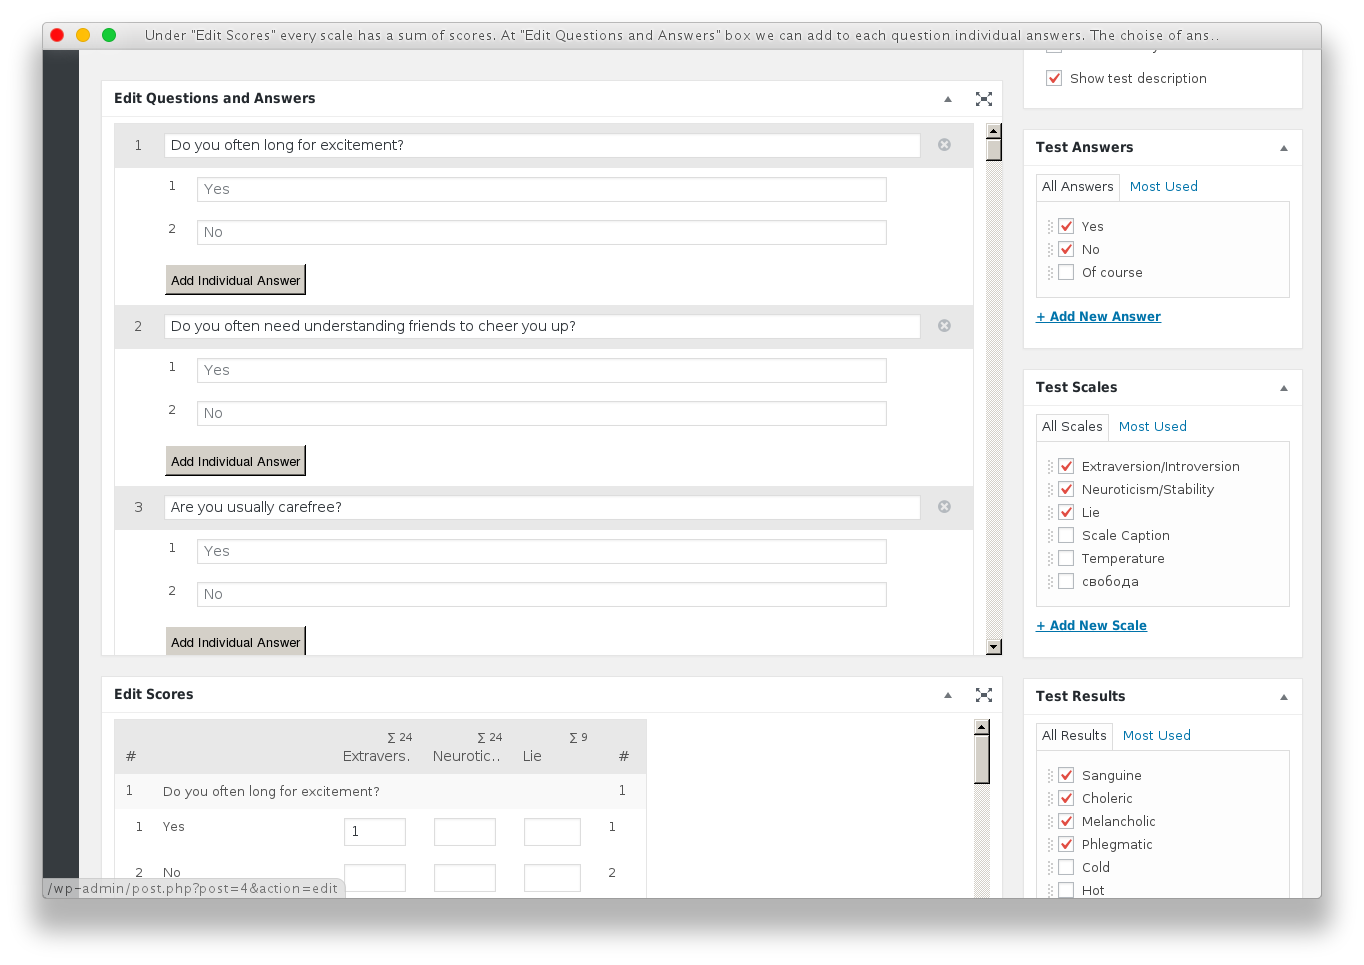
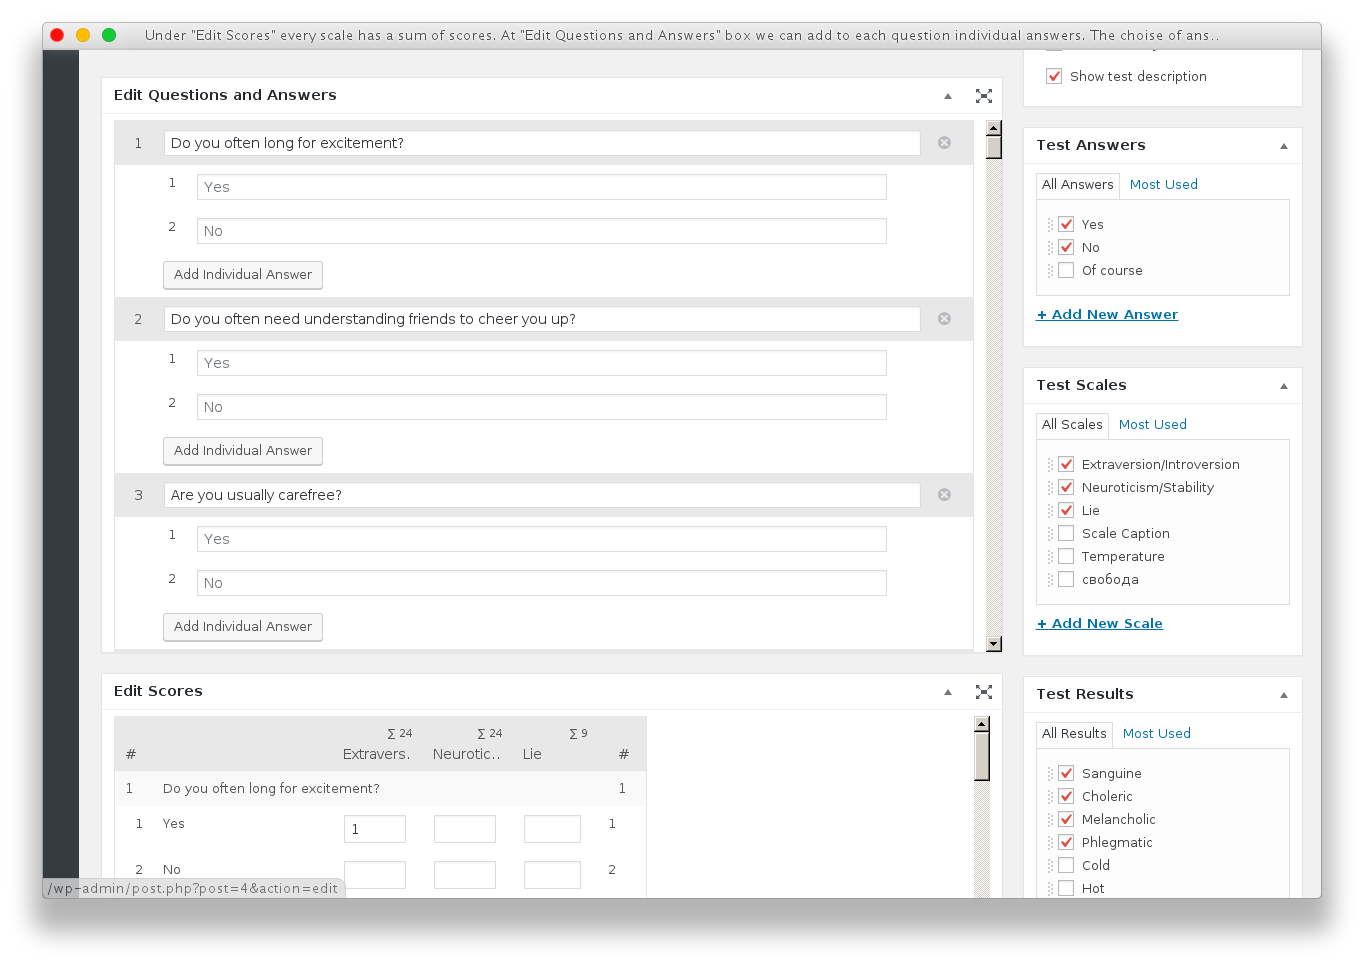
Update screenshots

diff --git a/tools/screenshots/create-screenshots.js b/tools/screenshots/create-screenshots.js
@@ -142,8 +142,11 @@ var screenshots = [
 
             casper.then(function() {
                 this.evaluate(function() {
-                    return jQuery('#wpt_edit_questions.closed').length > 0
-                }) && this.clickLabel('Edit Questions and Scores', 'span') && this.wait(400)
+                    return jQuery('#wpt_edit_questions_answers.closed').length > 0
+                }) && this.clickLabel('Edit Questions and Answers', 'span') && this.wait(400)
+                this.evaluate(function() {
+                    return jQuery('#wpt_edit_scores.closed').length > 0
+                }) && this.clickLabel('Edit Scores', 'span')
             })
         }
     }, {
@@ -192,6 +195,7 @@ var screenshots = [
         }
     },{
         title   : 'Ready test on the home page',
+        offset  : 1700,
         actions : function () {
             casper.thenOpen('http://wpti.dev:8000/wp-login.php?action=logout', function() {
                 this.clickLabel('log out', 'a')
@@ -201,15 +205,15 @@ var screenshots = [
         }
     }, {
         title   : 'The page with the description of the test, questions and answers',
-        offset  : 1150 + 580,
+        offset  : 1150 + 580 - 120,
         actions : function () {
-            casper.then(function() {
-                this.clickLabel('Eysenck’s Personality Inventory (EPI) (Extroversion/Introversion)')
-            }).waitForUrl(/eysencks/)
+            casper
+            .thenOpen('http://wpti.dev:8000/test/eysencks-personality-inventory-epi-extroversionintroversion/')
+            .waitForUrl(/eysencks/)
         }
     }, {
         title   : 'Unanswered questions are highlighted to respondent',
-        offset  : 7200 + 1100,
+        offset  : 7200 + 1100 + 160,
         actions : function () {
             casper
             .thenOpen('http://wpti.dev:8000/test/eysencks-personality-inventory-epi-extroversionintroversion/')
@@ -228,7 +232,7 @@ var screenshots = [
         }
     }, {
         title   : 'Get test results after all questions are answered',
-        offset  : 7200 + 1100,
+        offset  : 7200 + 1100 + 160,
         actions : function () {
             casper.then(function() {
                 i = 54
@@ -237,7 +241,7 @@ var screenshots = [
         }
     }, {
         title   : 'The result page on it`s own URL contains both the result of the test and the scales that create a result',
-        offset  : 400,
+        offset  : 400 - 20,
         actions : function () {
             casper.then(function() {
                 this.fill('form.wpt_test_form', {}, true)
@@ -251,12 +255,12 @@ var screenshots = [
         }
     }, {
         title   : 'Scale description with "more..." text closed',
-        offset  : 1500 + 600,
+        offset  : 1500 + 600 - 50,
         actions : function () {
         }
     }, {
         title   : 'Scale description with "more..." text opened (after clicking on "more" link)',
-        offset  : 1500 + 600 + 100,
+        offset  : 1500 + 600 - 50,
         actions : function () {
             casper.then(function() {
                 this.clickLabel('more…', 'a')
